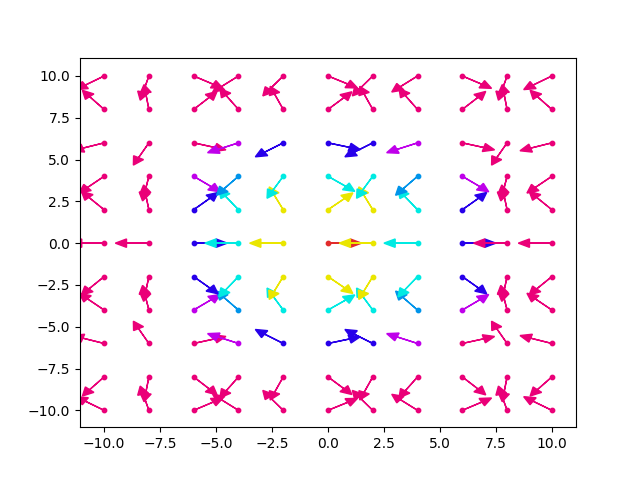
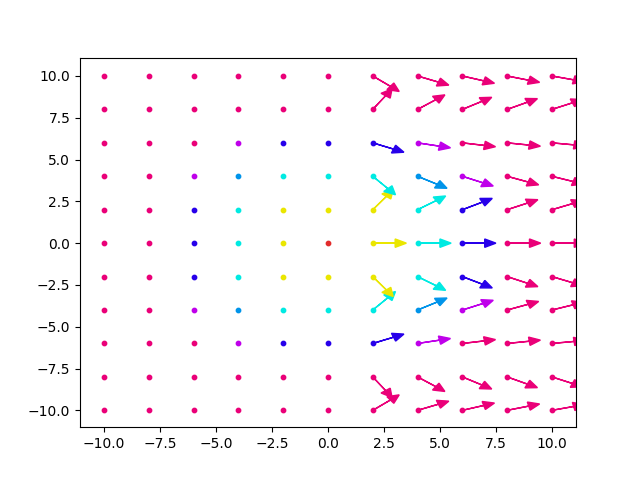
Adding Docs

diff --git a/src/visualizer.py b/src/visualizer.py
@@ -1,4 +1,4 @@
-from math import *
+from math import *  # This import statement allows for all other functions like log(x), sin(x), etc.
 import numpy as np
 import math
 import matplotlib.pyplot as plt
@@ -6,8 +6,11 @@ import matplotlib.pyplot as plt
 
 class Visualizer:
     def __init__(self, f_x, f_y):
+        # List of all colors
         self.color_list = ['#e22b2b', '#e88e10', '#eae600', '#88ea00',
                            '#00eae2', '#0094ea', "#2700ea", '#bf00ea', '#ea0078']
+
+        # Create the functions
         self.fx = eval("lambda x,y: " + str(f_x))
         self.fy = eval("lambda x,y: " + str(f_y))
 
@@ -20,36 +23,51 @@ class Visualizer:
     def plot(self, bound=(-10, 10), skip=1):
         c = "#0F0F0F"
         space = np.append(np.arange(bound[0], bound[1], skip), [bound[1]])
-        head_size = (math.fabs(bound[0]) + math.fabs(bound[1]))/40
+        head_size = (math.fabs(bound[0]) + math.fabs(bound[1])) / 40
         for y in space:
             for x in space:
-                plt.scatter([x], [y], c=c, s=[5/head_size])
+                plt.scatter([x], [y], c=c, s=[5 / head_size])
                 plt.arrow(x, y, self.fx(x, y), self.fy(x, y),
                           head_width=head_size, head_length=head_size, color=c)
         return plt
 
     def plot_color(self, bound=(-10, 10), skip=1, prop=0):
-        head_size = (math.fabs(bound[0]) + math.fabs(bound[1])) / 40
-        space = np.append(np.arange(bound[0], bound[1], skip), [bound[1]])
+        head_size = (math.fabs(bound[0]) + math.fabs(bound[1])) / 40  # calculate head size in proportion to bounds
+        space = np.append(np.arange(bound[0], bound[1], skip), [bound[1]])  # All points to place vectors on
+
+        # Loops
         for y in space:
             for x in space:
-                v = int(math.sqrt(x ** 2 + y ** 2) / 10 ** prop)
-                index = len(self.color_list) - 1 if v > len(self.color_list) - 1 else v
-                c = self.color_list[index]
-                plt.scatter([x], [y], c=c, s=[5/head_size])
+                v = int(math.sqrt(x ** 2 + y ** 2) / 10 ** prop)  # select color based on magnitude
+
+                index = len(self.color_list) - 1 if v > len(self.color_list) - 1 else v  # prevent IndexError
+                c = self.color_list[index]  # Choose color from list
+
                 try:
+                    # Use functions passed to calculate X and Y components
                     x_val = float(self.fx(float(x), float(y)))
                     y_val = float(self.fy(float(x), float(y)))
+
+                # Make sure no Math Domain Error occurs, Eg. log(x)
                 except ValueError:
                     continue
+
+                # Place the beginning dot of the arrow
+                plt.scatter([x], [y], c=c, s=[5 / head_size])
+
                 try:
+                    # Calculate angle; magnitude is always 1
                     angle = math.atan(y_val / x_val) if x_val > 0 else (math.atan(y_val / x_val) + math.pi)
                     plt.arrow(x, y, math.cos(angle), math.sin(angle),
-                              head_width=head_size, head_length=head_size, color=c)
+                              head_width=head_size, head_length=head_size, color=c)  # place the arrow
+
+                # If the angle is 0, use the X and Y components to make unit vector
                 except ZeroDivisionError:
                     try:
-                        plt.arrow(x, y, 0, y_val/math.fabs(y_val), head_width=head_size, head_length=head_size,
+                        plt.arrow(x, y, 0, y_val / math.fabs(y_val), head_width=head_size, head_length=head_size,
                                   color=c)
+
+                    # If magnitude is 0, then it's a point
                     except ZeroDivisionError:
                         plt.scatter([x], [y], color=c, s=[10])
         return plt
